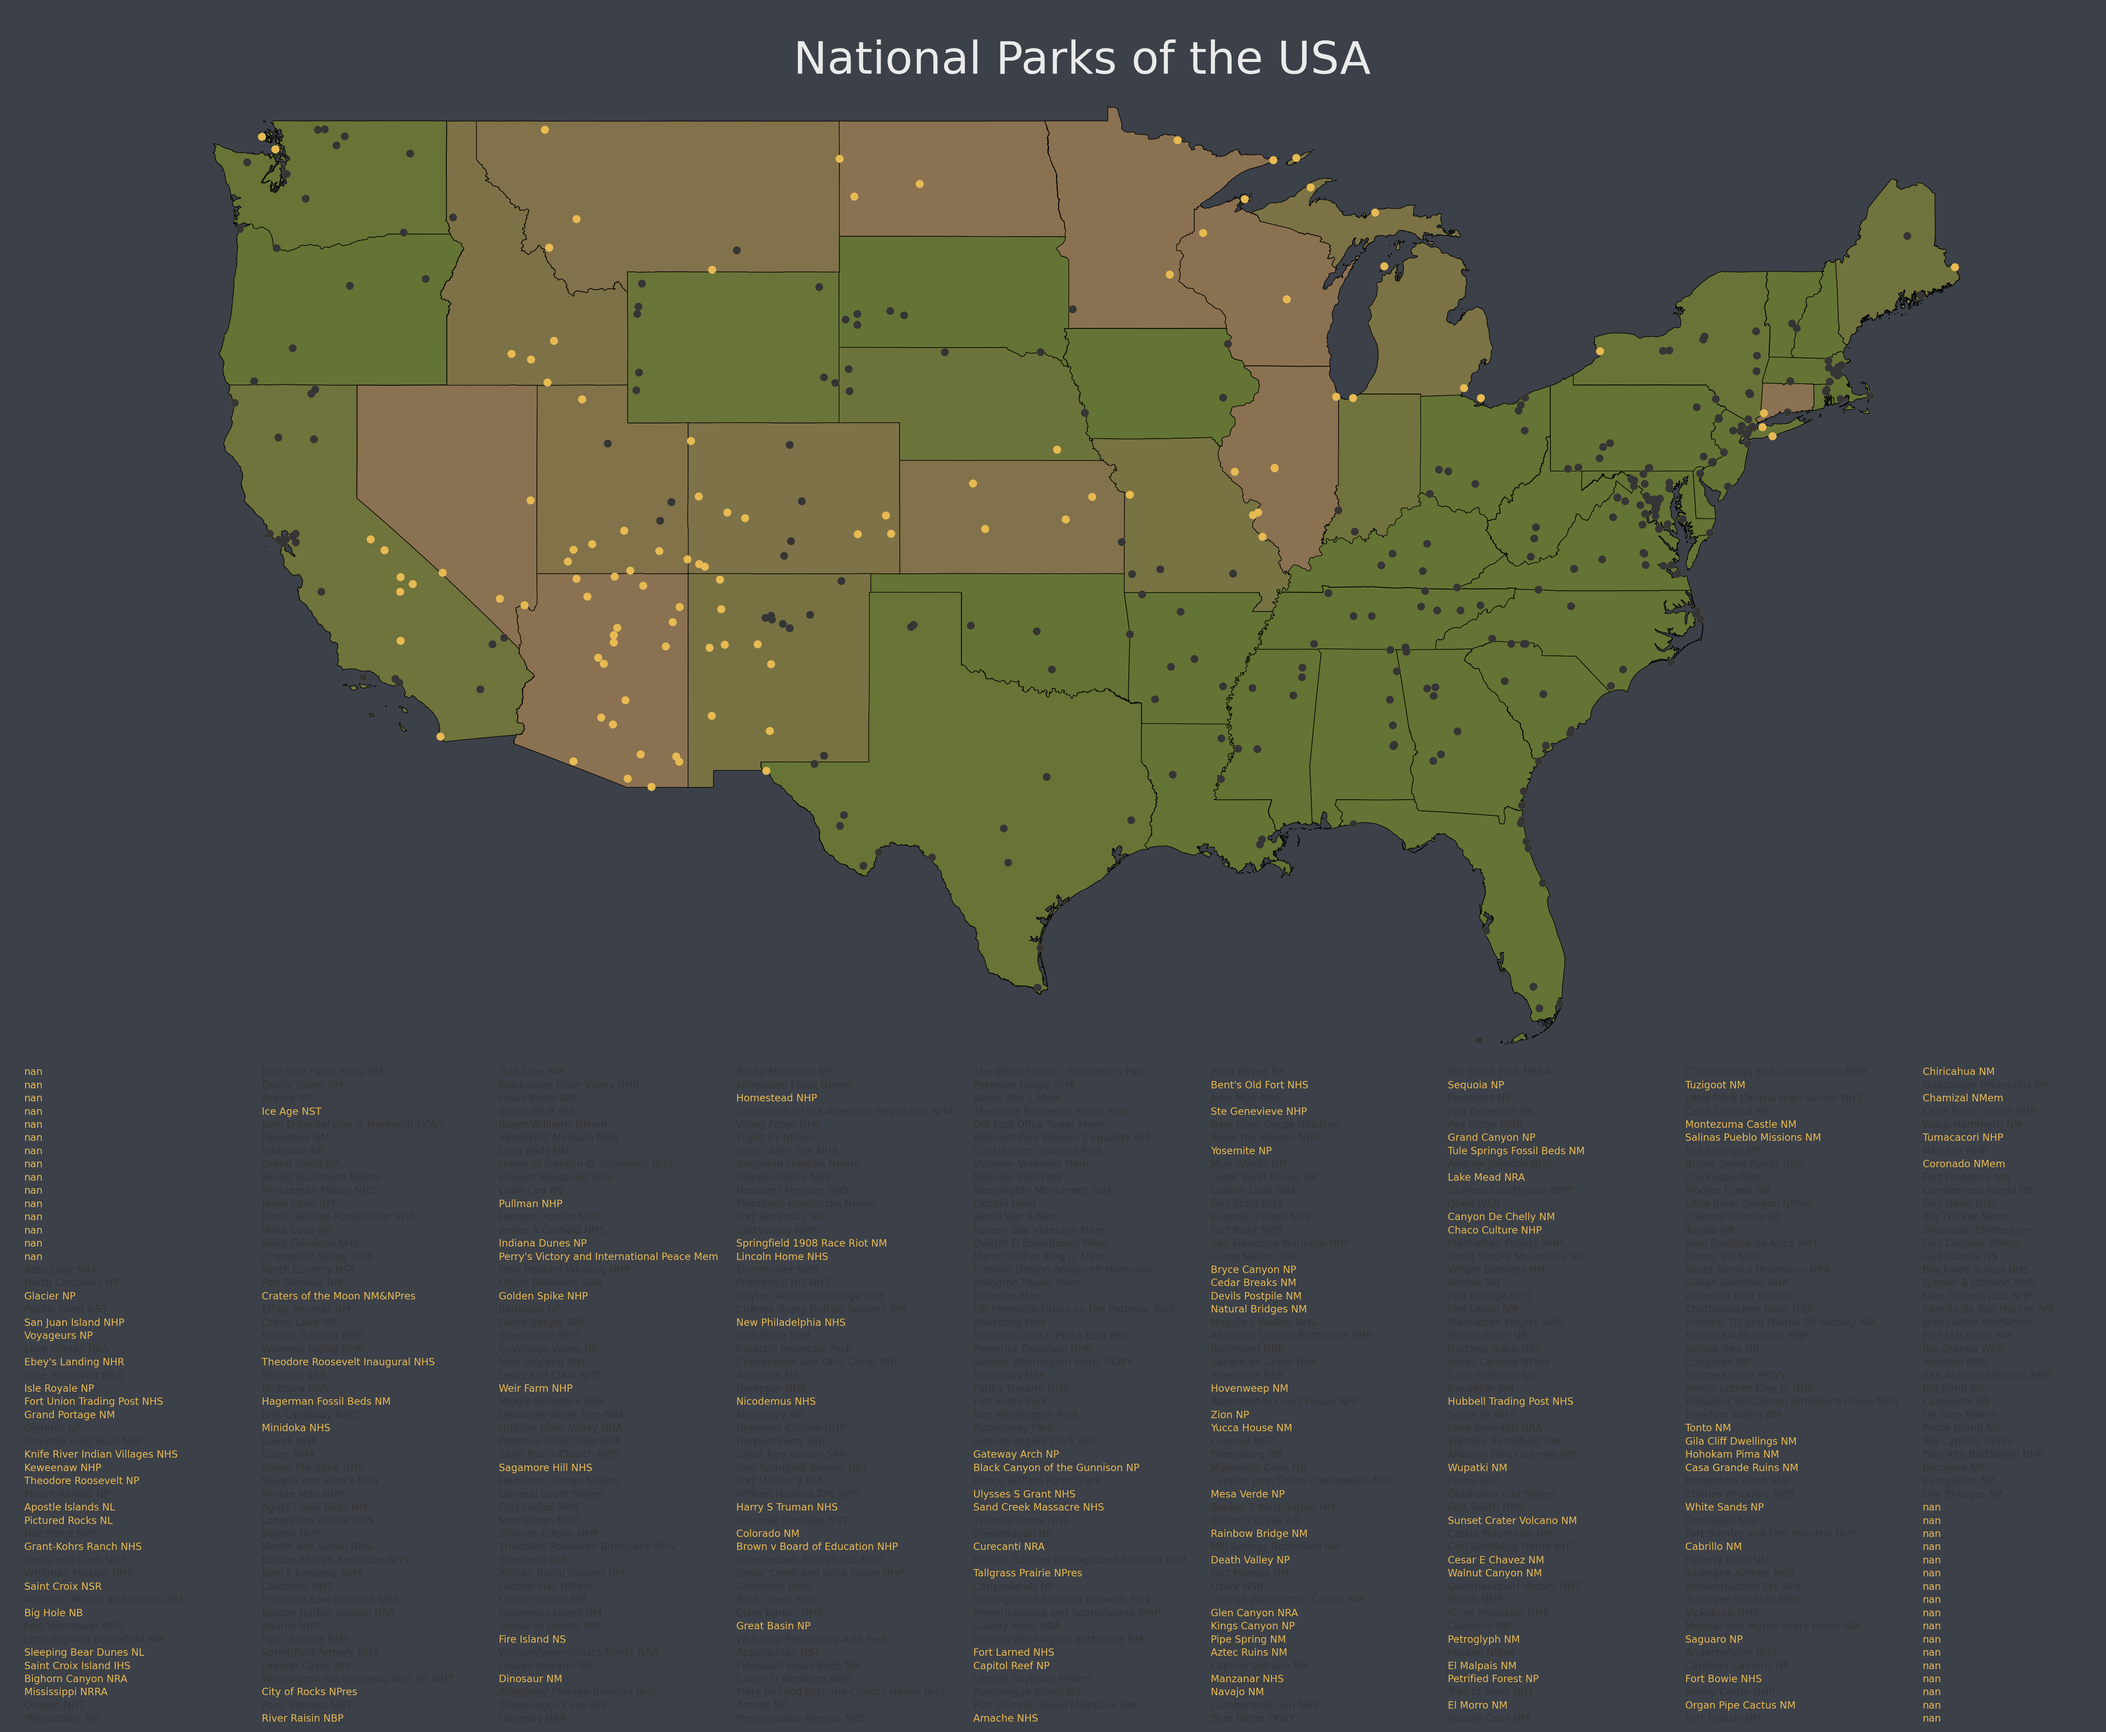
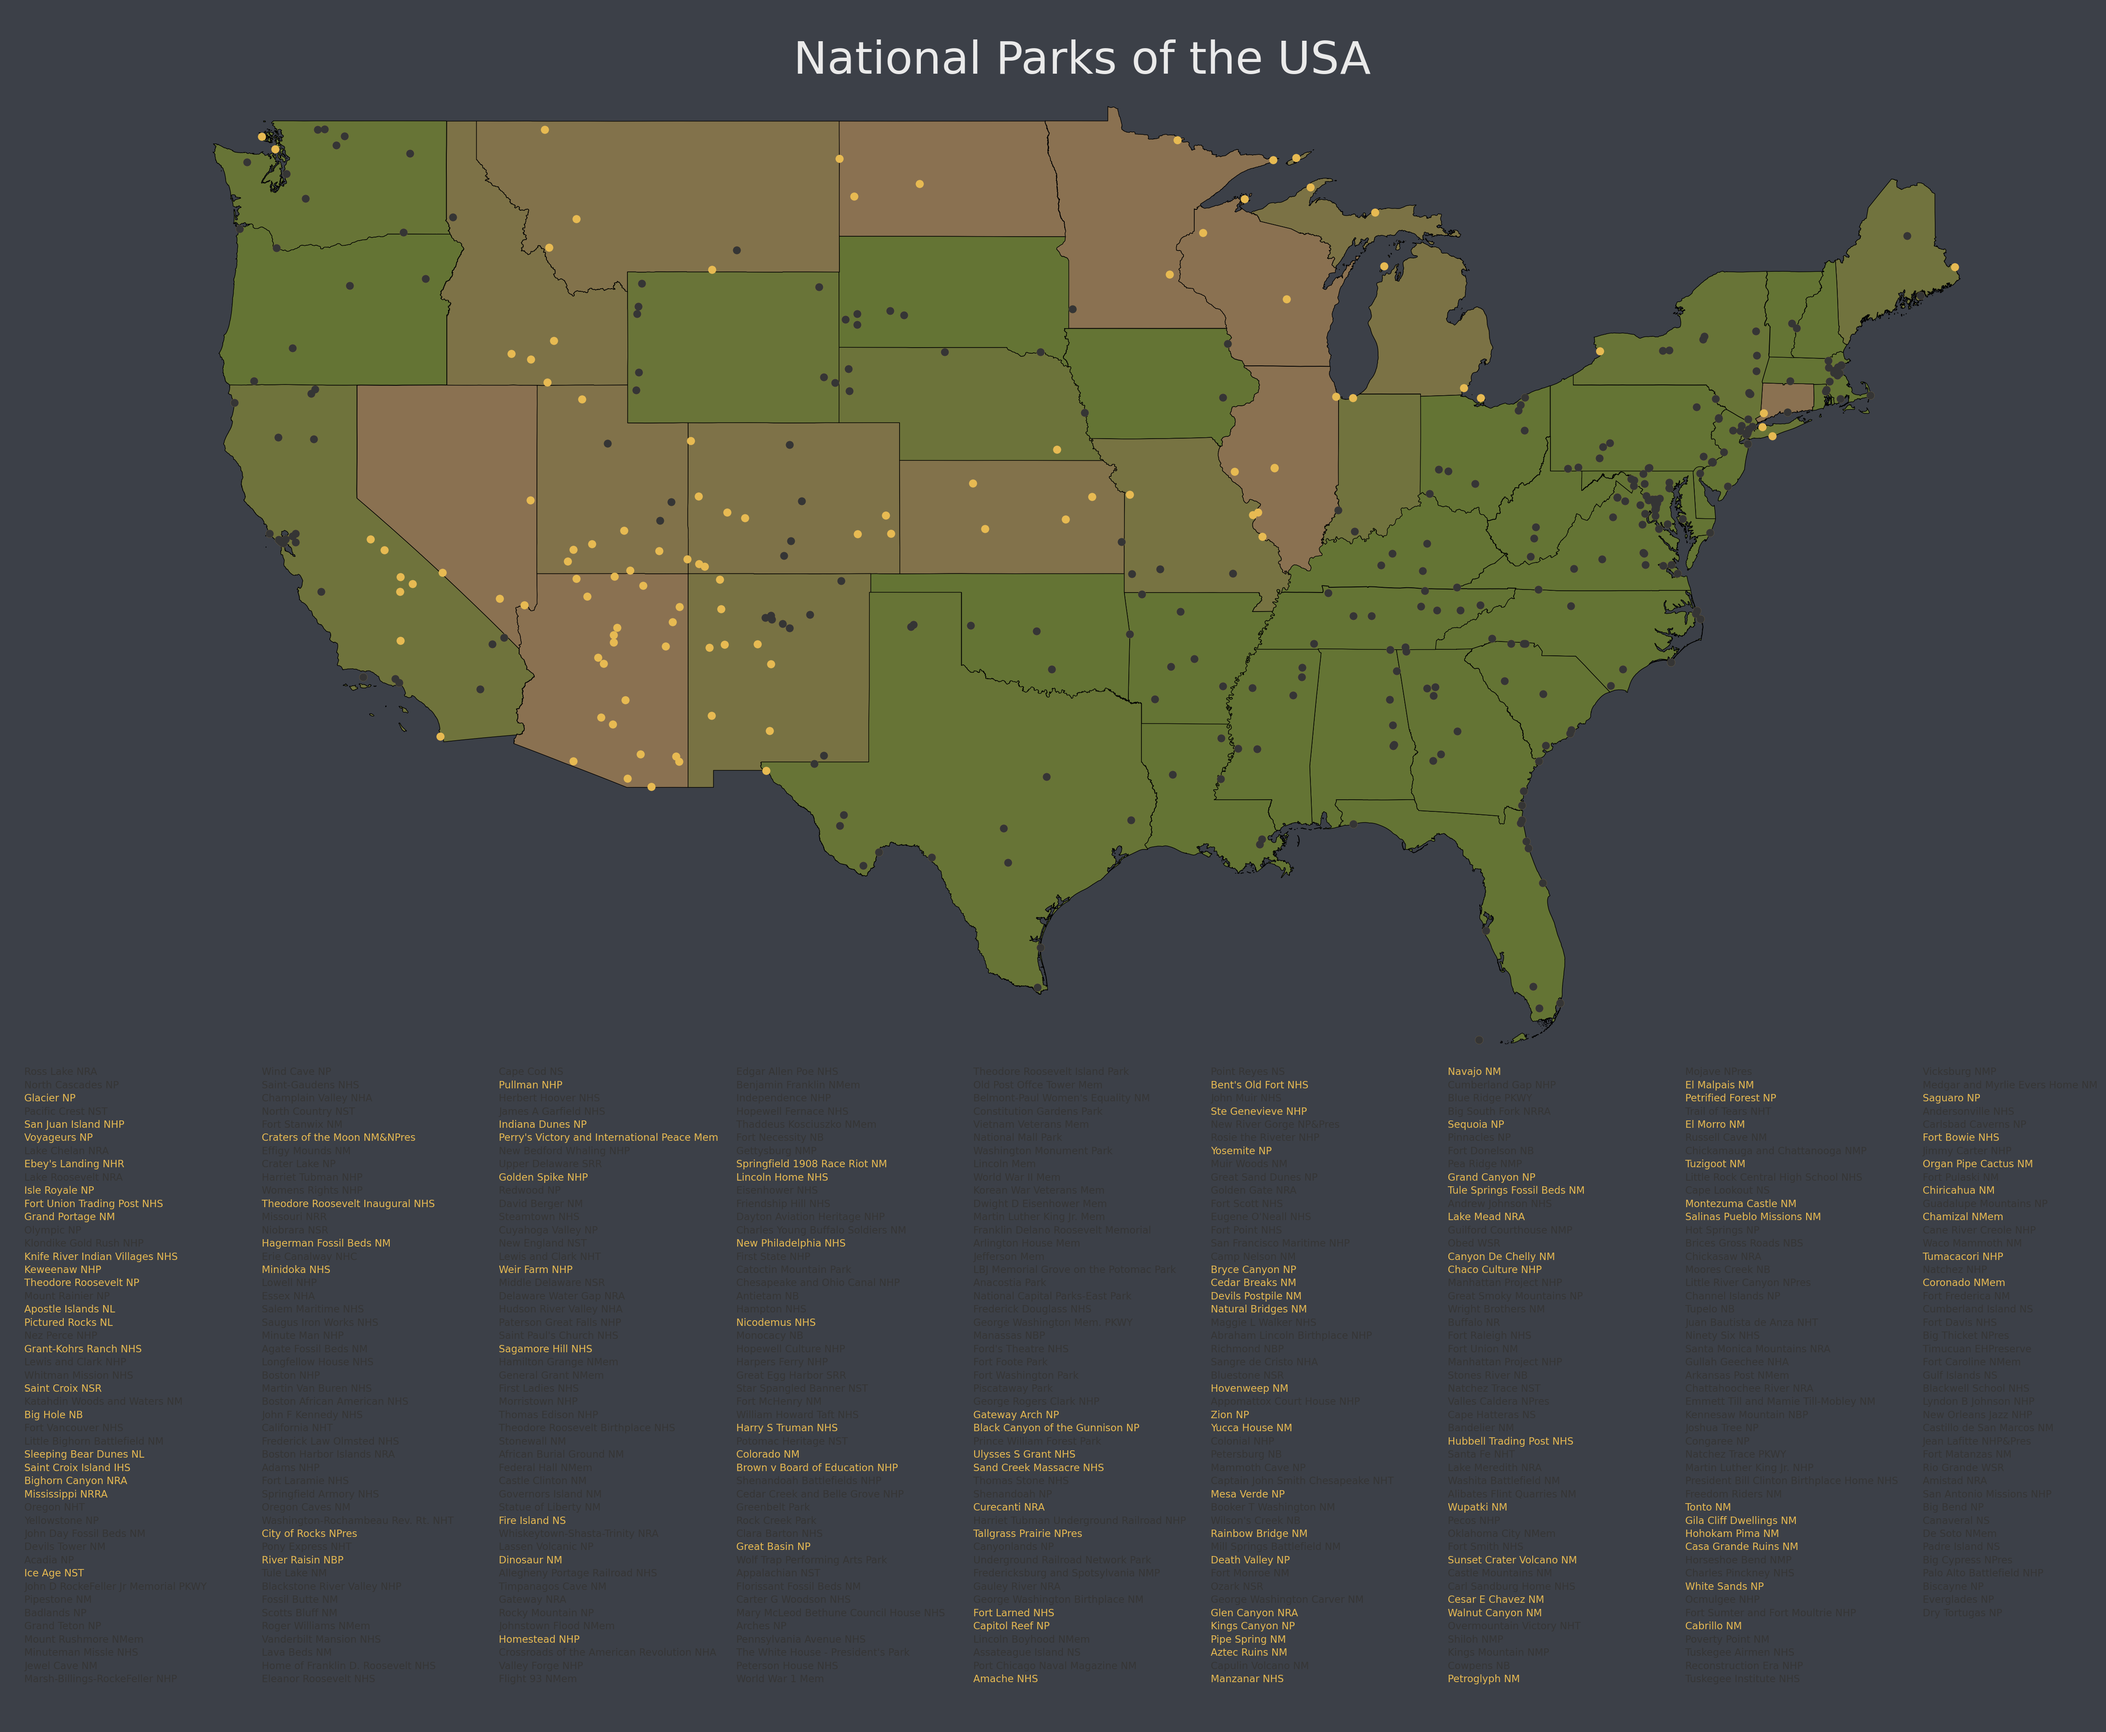
update the large plots

diff --git a/main.py b/main.py
@@ -1,63 +1,63 @@
-import pandas as pd
-import datetime
+#import pandas as pd
+#import datetime
 
-from metadata.meta_loader import MetaLoader
-from data.points_loader import PointsLoader
-from data.submaps_loader import SubmapsLoader
-from plotting.plotting_manager import PlotManager
+#from metadata.meta_loader import MetaLoader
+#from data.points_loader import PointsLoader
+#from data.submaps_loader import SubmapsLoader
+#from plotting.plotting_manager import PlotManager
 from plotting.gif_generator import GifGenerator
-from utils.file_utils import ensure_directory_exists
+#from utils.file_utils import ensure_directory_exists
 
 
 # Set global variables, directories for map creation and site locations
-SCALE = 4
+SCALE = 3
 
 # US National Park Global Variables
-#PATH = "us"
+PATH = "us"
 
 # Germany Global Variables
-PATH = "de"
+#PATH = "de"
 
 # Europe Global Variables
 #PATH = "eu"
 
 # Ensure output folders exist
-ensure_directory_exists("plots/temp")
-ensure_directory_exists("plots")
-ensure_directory_exists("gifs")
+#ensure_directory_exists("plots/temp")
+#ensure_directory_exists("plots")
+#ensure_directory_exists("gifs")
 
 # Load the JSON Meta-Data, Points data, and map data
-meta_data = MetaLoader(PATH).load()
-points_gdf = PointsLoader(PATH).load()
-submaps = SubmapsLoader(PATH).load()
+#meta_data = MetaLoader(PATH).load()
+#points_gdf = PointsLoader(PATH).load()
+#submaps = SubmapsLoader(PATH).load()
 
 # Create a sorted values df
-points_sorted = points_gdf.sort_values('date')
+#points_sorted = points_gdf.sort_values('date')
 
 # Generate plots
-old_date = None
-plot_manager = PlotManager(
-    points_gdf=points_gdf,
-    submaps=submaps,
-    meta_data=meta_data,
-    path=PATH,
-    scale=SCALE
-)
+#old_date = None
+#plot_manager = PlotManager(
+#    points_gdf=points_gdf,
+#    submaps=submaps,
+#    meta_data=meta_data,
+#    path=PATH,
+#    scale=SCALE
+#)
 
 # Add first plot
-current_date = points_sorted['date'].min() - datetime.timedelta(days=1)
-plot_manager.generate_plot(current_date, points_sorted.iloc[0], copy=True)
+#current_date = points_sorted['date'].min() - datetime.timedelta(days=1)
+#plot_manager.generate_plot(current_date, points_sorted.iloc[0], copy=True)
 
 # Plot all dates
-for _, row in points_sorted.iterrows():
-    current_date = row['date']
-    if pd.notna(current_date) and current_date != old_date:
-        plot_manager.generate_plot(current_date, row)
-        old_date = current_date
+#for _, row in points_sorted.iterrows():
+#    current_date = row['date']
+#    if pd.notna(current_date) and current_date != old_date:
+#        plot_manager.generate_plot(current_date, row)
+#        old_date = current_date
 
 # Create Last Plot
-old_date += datetime.timedelta(days=1)
-plot_manager.generate_plot(old_date, row, copy=True)
+#old_date += datetime.timedelta(days=1)
+#plot_manager.generate_plot(old_date, row, copy=True)
 
 # Create gif from produced plots
 gif = GifGenerator(
